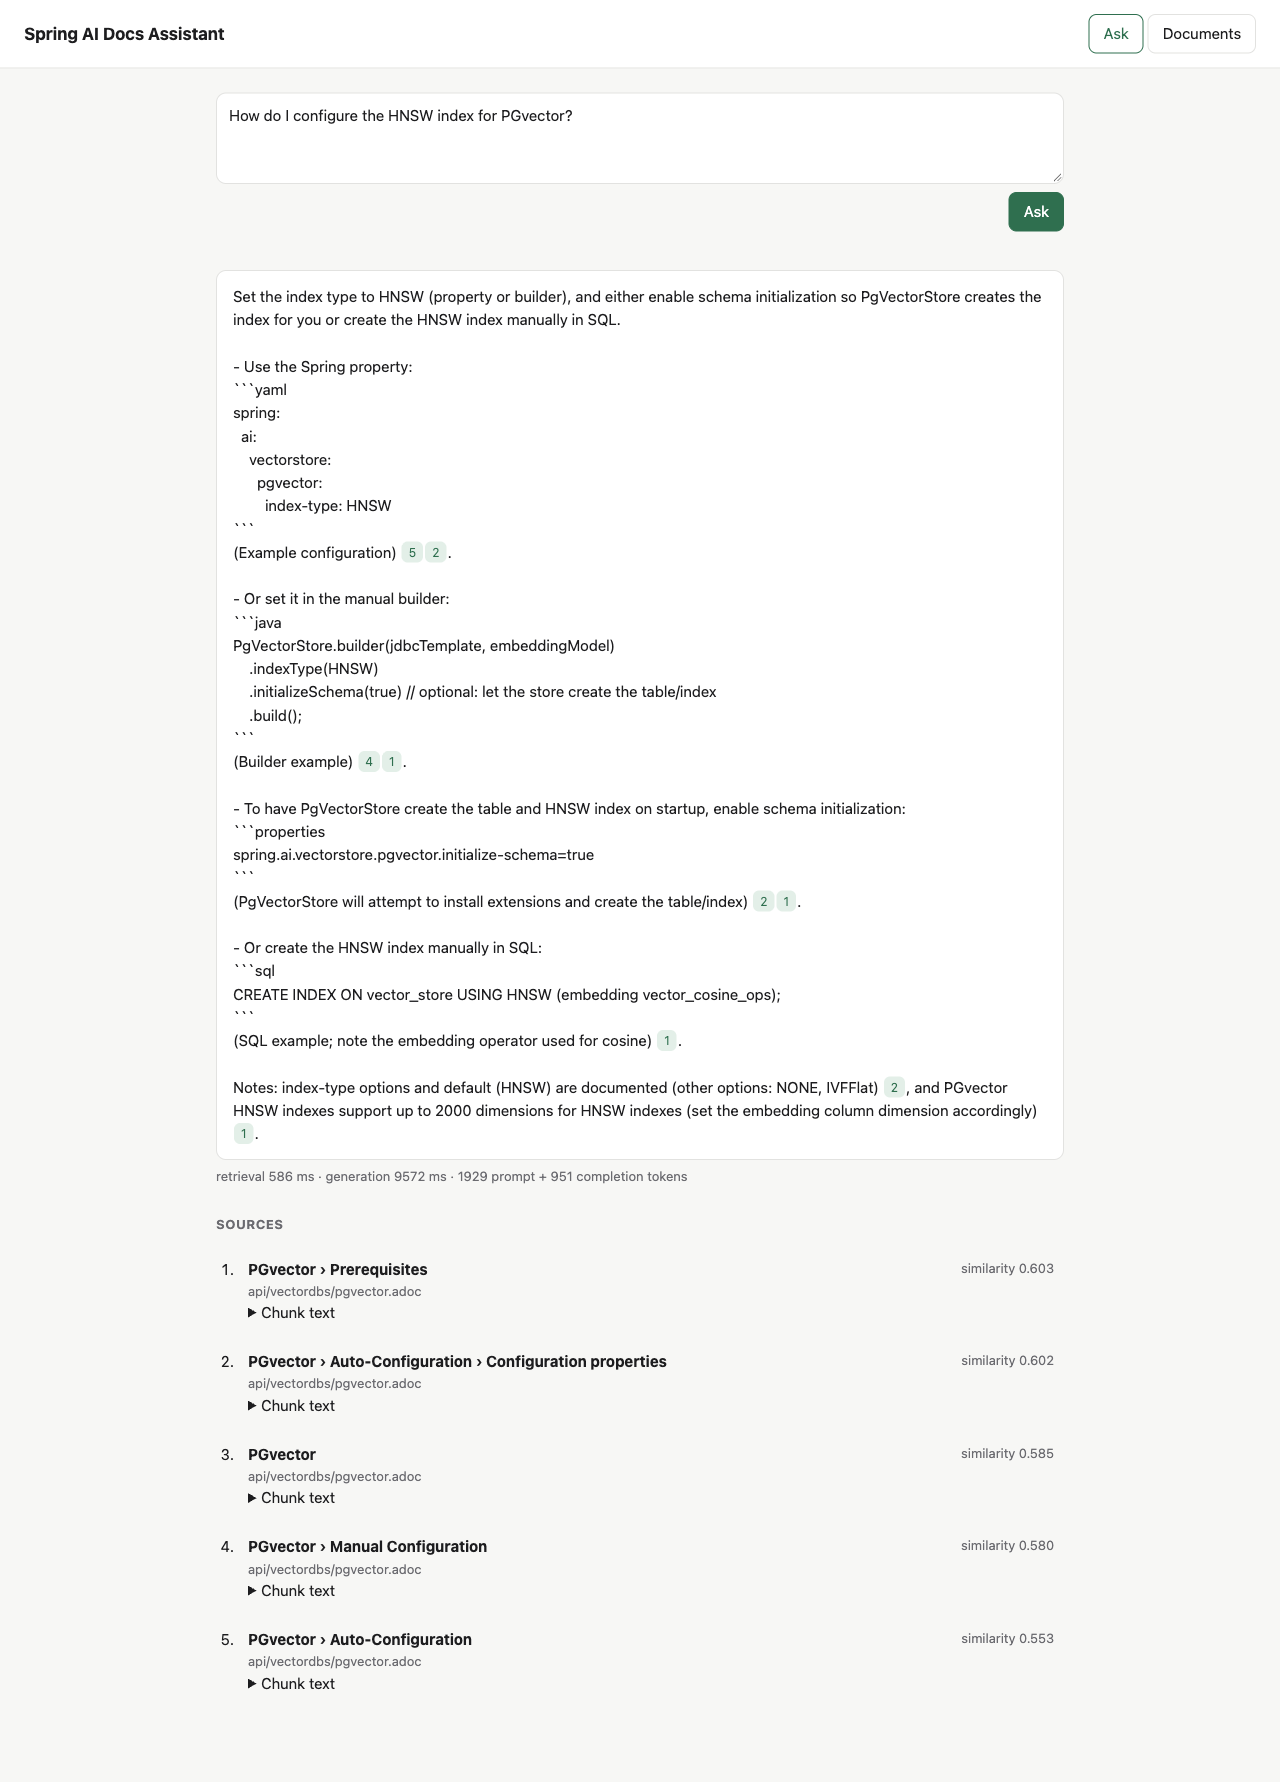
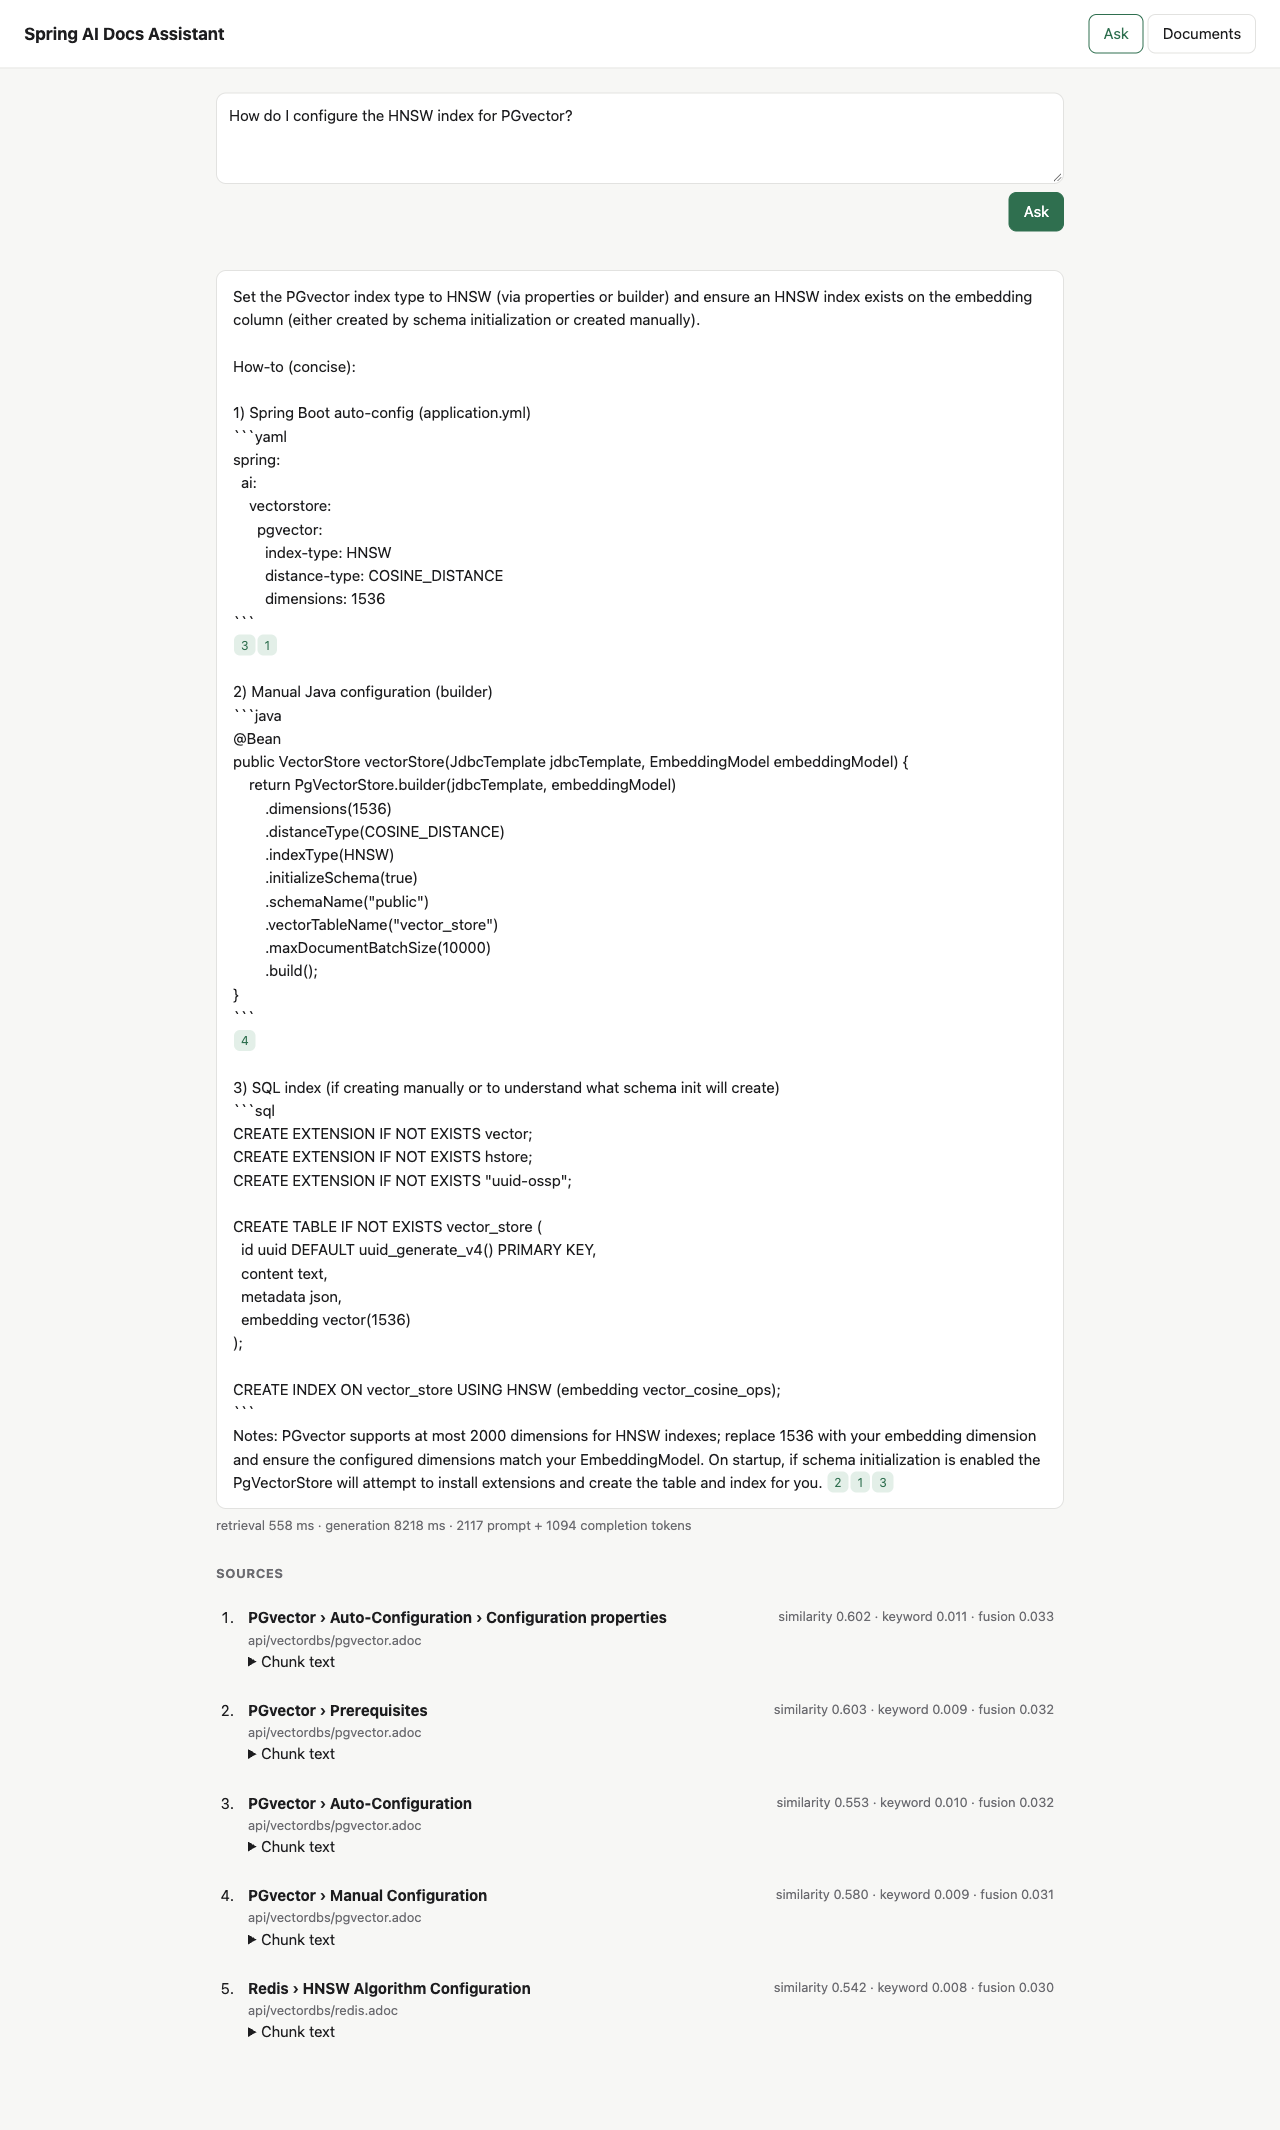
eval: M4 re-run with ts_rank — hybrid wins and becomes the default; README and screenshots updated

diff --git a/README.md b/README.md
@@ -39,7 +39,7 @@ multi-query, reranking) gets added only after an evaluation harness can measure 
 | M1 | Structure-aware chunking, idempotent ingestion, document API, corpus fetch script | ✅ done |
 | M2 | Naive vector-only baseline: retrieval, grounded answers with `[n]` citations, SSE streaming, browser UI | ✅ done |
 | M3 | Golden set (generated, then reviewed) and an `EvalRunner` with retrieval metrics | ✅ done |
-| M4 | Keyword search (`tsvector`) plus reciprocal rank fusion: hybrid retrieval | ✅ done (vector stays the default; see Evaluation) |
+| M4 | Keyword search (`tsvector`) plus reciprocal rank fusion: hybrid retrieval | ✅ done (hybrid is the default; see Evaluation) |
 | M5 | Query rewriting and multi-query expansion, parallel retrieval | next |
 | M6 | LLM reranker with a minimum score, so off-topic questions are refused | planned |
 | M7 | Generation evals (faithfulness, relevancy, citation validity), `/api/retrieve`, debug panel | planned |
@@ -110,7 +110,7 @@ Type a question and press **Ask**, or press <kbd>⌘</kbd>/<kbd>Ctrl</kbd>+<kbd>
 Each `[n]` in the answer is a chip. Clicking it expands source *n*, scrolls to it and highlights it. The source shows the
 exact chunk text the model saw, including its contextual header:
 
-![Clicking citation 2 opens the configuration-properties chunk; the whole properties table is one chunk](docs/images/02-citation-opens-source.png)
+![Clicking citation 1 opens the configuration-properties chunk, ranked first by hybrid search; the whole properties table is one chunk](docs/images/02-citation-opens-source.png)
 
 > The answer is shown as plain text: Markdown is deliberately not rendered, so no model or document text is ever injected
 > as HTML. Code fences therefore appear as literal backticks.
@@ -159,6 +159,7 @@ flowchart LR
         AS[AnswerService]
         RP[RetrievalPipeline]
         VR[VectorRetriever]
+        KR[KeywordRetriever]
         PA[PromptAssembler]
         DC["DocumentController<br/>/api/ingest/corpus, /api/documents"]
         CI[CorpusIngestor]
@@ -174,6 +175,7 @@ flowchart LR
 
     UI -->|question| CC --> AS --> RP --> VR -->|similaritySearch| VS
     VR -.->|embed query| OAI
+    RP --> KR -->|"full-text: ts_rank"| VS
     AS --> PA
     AS -->|stream| OAI
     UI -->|upload / sync / delete| DC
@@ -311,8 +313,13 @@ sequenceDiagram
     B->>C: POST /api/chat {"question": "..."}
     C->>A: answer(question)
     A->>R: retrieve(question)
-    R->>O: embed question
-    R->>P: cosine top-5 WHERE embedding_model = current
+    par vector search
+        R->>O: embed question
+        R->>P: cosine top-20 (current model)
+    and keyword search
+        R->>P: websearch_to_tsquery, ts_rank top-20
+    end
+    R->>R: reciprocal rank fusion → top 5
     R-->>A: documents + trace
     A-->>B: event: sources
     A->>O: stream(system rules + numbered sources + question)
@@ -323,9 +330,15 @@ sequenceDiagram
     A-->>B: event: done (usage, timings)
 ```
 
-1. **Retrieve** (`VectorRetriever`): the question is embedded, then a cosine search over the HNSW index returns the
-   `top-k` (5) chunks. The search is filtered to `embedding_model = rag.embedding-model`, so vectors from another model
-   are never compared with the query.
+1. **Retrieve** (`RetrievalPipeline`; `rag.retrieval.mode=hybrid` by default since M4). The two searches run in
+   parallel on virtual threads:
+   - **Vector search** (`VectorRetriever`): the question is embedded, then a cosine search over the HNSW index returns
+     the top 20 candidates.
+   - **Keyword search** (`KeywordRetriever`): Postgres full-text search over `content_tsv` returns the top 20. It uses
+     `websearch_to_tsquery` with the terms OR-ed, ranked by length-normalised `ts_rank`.
+
+   **Fusion** (`ReciprocalRankFusion`, k = 60) merges the two rankings by rank alone and keeps the top-k (5). Both
+   searches only see chunks of the current embedding model. The `vector` and `keyword` modes run one retriever alone.
 2. **Assemble the prompt** (`PromptAssembler`):
    - The **system message** holds fixed rules (see [`prompts/answer-system.st`](src/main/resources/prompts/answer-system.st)):
      answer only from the sources; cite every factual statement as `[n]`; say *"I couldn't find this in the indexed
@@ -381,7 +394,7 @@ data:{"promptTokens":1641,"completionTokens":382,"retrievalMillis":1099,"generat
 
 | Event | Payload | When |
 |---|---|---|
-| `sources` | `{"sources": [{n, sourcePath, title, breadcrumb, score, text}]}` | Once, first. `score` is the cosine similarity (1 − distance). `n` is the number the model cites. |
+| `sources` | `{"sources": [{n, sourcePath, title, breadcrumb, score, text, scores}]}` | Once, first. `score` is what the chunk was ranked by: the fused RRF score in hybrid mode, cosine similarity in vector mode. `scores` gives each retrieval stage's score (`vector`, `keyword`, `fusion`). `n` is the number the model cites. |
 | `token` | `{"text": "…"}` | Any number of times. |
 | `done` | `{promptTokens, completionTokens, retrievalMillis, generationMillis}` | Once, last. The token counts are `null` when no model call was made. |
 | `error` | `{"message": "Sorry, the answer could not be generated. The server log has the details."}` | Replaces `done` if anything fails. |
@@ -448,7 +461,7 @@ variables or `--name=value`.
 | `rag.chunking.overlap-tokens` | `60` | Trailing prose repeated at the start of the next chunk. |
 | `rag.retrieval.top-k` | `5` | Chunks handed to the model. |
 | `rag.retrieval.similarity-threshold` | `0.0` | Minimum cosine similarity. M6's reranker will own refusals. |
-| `rag.retrieval.mode` | `vector` | `vector`, `keyword` or `hybrid` (both, fused with RRF k=60). Chosen by the M4 eval; hybrid lost on MRR@10. |
+| `rag.retrieval.mode` | `hybrid` | `vector`, `keyword` or `hybrid` (both in parallel, fused with RRF k=60). Chosen by the M4 eval. |
 | `rag.retrieval.candidates` | `20` | Hybrid: chunks each retriever contributes before fusion. |
 | `server.port` / `server.address` | `8081` / `127.0.0.1` | Loopback only, because there is no authentication. |
 | `spring.servlet.multipart.max-file-size` | `20MB` | Upload limit. |
@@ -550,20 +563,18 @@ reviewed by Claude at the user's request rather than by a human:
 The eval reports hit@5, recall@5, MRR@10 and p50/p95 retrieval latency for each retrieval configuration. Golden
 labels name a page and a heading path, not chunk ids, so the set survives re-chunking.
 
-**M4 comparison (53 questions, 2026-10-06):**
+**M4 comparison (53 questions, 2026-10-06; keyword search ranked with `ts_rank`):**
 
 | Config | hit@5 | recall@5 | MRR@10 | p50 ms | p95 ms |
 |---|---|---|---|---|---|
-| vector | 0.981 | 0.965 | 0.864 | 485 | 777 |
-| keyword | 0.509 | 0.472 | 0.359 | 12 | 31 |
-| hybrid | 0.962 | 0.937 | 0.736 | 476 | 731 |
+| vector | 0.981 | 0.965 | 0.864 | 497 | 885 |
+| keyword | 0.962 | 0.950 | 0.840 | 16 | 52 |
+| hybrid | 0.981 | 0.975 | 0.915 | 469 | 715 |
 
-Vector search stays the default (`rag.retrieval.mode=vector`), as the rule fixed before the run required: hybrid
-lost on MRR@10. Keyword search was weak because of its rank function: `ts_rank_cd` lets a common word repeated in a
-chunk outrank a rare exact identifier. In an exploratory run outside the harness, `ts_rank` scored 0.925 hit@5 for
-keyword search alone, so the decision holds only for the keyword retriever as built. Details, the per-tag results
-and the next experiment are in [`eval/README.md`](eval/README.md#m4-vector-vs-keyword-vs-hybrid). The golden set is
-AI-reviewed and was mostly generated from single chunks, which favours vector search.
+Hybrid retrieval is the default (`rag.retrieval.mode=hybrid`), as the rule fixed before the run required. It matches
+vector search on paraphrased questions and lifts identifier questions from MRR@10 0.753 to 0.962. A first run that
+ranked keyword search with `ts_rank_cd` lost; why, and the per-tag results, are in
+[`eval/README.md`](eval/README.md#m4-vector-vs-keyword-vs-hybrid). The golden set is AI-reviewed.
 
 ## Design decisions
 
@@ -623,8 +634,6 @@ previous configuration.
      reuse the chunk's wording.
   2. A human reviews them into `eval/golden-set.json`.
   3. `EvalRunner` (`eval` profile) reports hit@5, recall@5, MRR@10 and p50/p95 latency.
-- **M4:** `KeywordRetriever` (`websearch_to_tsquery` + `ts_rank_cd`) and reciprocal rank fusion, with
-  `rag.retrieval.mode=VECTOR|KEYWORD|HYBRID`.
 - **M5:** query rewriting and multi-query expansion, retrieval in parallel on virtual threads, and RRF across query
   variants.
 - **M6:** an `LlmReranker` with a minimum score, so off-topic questions are refused.
@@ -651,7 +660,8 @@ previous configuration.
     │   ├── ingest/                  SectionParser, StructureAwareChunker, Chunk, ChunkedText, ChunkMetadata,
     │   │                            DocumentIngestionService, CorpusIngestor, SourceDocument(+Repository),
     │   │                            TextExtractor, DocumentController, CorpusUnavailableException
-    │   ├── retrieval/               RetrievalPipeline, VectorRetriever, RetrievalResult, PipelineTrace
+    │   ├── retrieval/               RetrievalPipeline, RetrievalMode, RetrievalOptions, VectorRetriever,
+    │   │                            KeywordRetriever, ReciprocalRankFusion, RetrievalResult, PipelineTrace
     │   └── generation/              AnswerService, PromptAssembler, AssembledPrompt, ChatController,
     │                                ChatRequest, ChatEvent, SourceRef
     ├── main/resources/

diff --git a/eval/README.md b/eval/README.md
@@ -81,6 +81,49 @@ This writes `eval/reports/<UTC time>.md` and `.json` (gitignored). Each report r
 
 ## M4: vector vs keyword vs hybrid
 
+**Final comparison** from `eval/reports/2026-10-06T09-34-14Z.md` (golden set v2, 53 questions). Keyword search here is ranked with
+length-normalised `ts_rank` (spec amendment 27):
+
+| | |
+|---|---|
+| Golden set | `eval/golden-set.json` (53 questions, sha256 `9d43cfa4e4cb…`) |
+| Index | 51 corpus pages, 0 uploads, 1106 chunks |
+| Embedding model | `text-embedding-3-small` |
+| Chunking | max 500 · min 50 · overlap 60 tokens |
+
+| Config | hit@5 | recall@5 | MRR@10 | p50 ms | p95 ms |
+|---|---|---|---|---|---|
+| vector | 0.981 | 0.965 | 0.864 | 497 | 885 |
+| keyword | 0.962 | 0.950 | 0.840 | 16 | 52 |
+| hybrid | 0.981 | 0.975 | 0.915 | 469 | 715 |
+
+| Config | Tag | Items | hit@5 | recall@5 | MRR@10 |
+|---|---|---|---|---|---|
+| vector | identifier | 13 | 1.000 | 0.962 | 0.753 |
+| vector | untagged | 40 | 0.975 | 0.967 | 0.900 |
+| keyword | identifier | 13 | 1.000 | 1.000 | 1.000 |
+| keyword | untagged | 40 | 0.950 | 0.933 | 0.788 |
+| hybrid | identifier | 13 | 1.000 | 1.000 | 0.962 |
+| hybrid | untagged | 40 | 0.975 | 0.967 | 0.900 |
+
+**Default mode: HYBRID.** The rule fixed before the first run (spec amendment 24) holds:
+- hybrid's MRR@10 is 0.915, at least vector's 0.864;
+- hybrid's hit@5 is 0.981, equal to vector's (the rule allows one question, 1/53, below).
+
+`rag.retrieval.mode` is now `hybrid`.
+
+- **The whole gain is on identifier questions.** MRR@10 rises from 0.753 (vector) to 0.962 (hybrid); keyword search
+  alone ranks every identifier question's section first (1.000).
+- **Nothing is lost on the other 40 questions.** Hybrid and vector both score hit@5 0.975 and MRR@10 0.900.
+- **Latency is unchanged.** Keyword search takes about 16 ms and runs in parallel with the query embedding.
+- **Caveats:**
+  - `ts_rank` normalization 1 was chosen after seeing exploratory numbers on this same golden set, which risks
+    overfitting to it.
+  - The identifier questions were written by Claude.
+  - With 53 questions, one question is worth about 0.019 in hit@5.
+
+### First run: keyword ranked by `ts_rank_cd`
+
 Recorded on 2026-10-06 from `eval/reports/2026-10-06T05-48-24Z.md` (golden set v2, 53 questions):
 
 | | |
@@ -105,7 +148,7 @@ Recorded on 2026-10-06 from `eval/reports/2026-10-06T05-48-24Z.md` (golden set v
 | hybrid | identifier | 13 | 0.923 | 0.846 | 0.785 |
 | hybrid | untagged | 40 | 0.975 | 0.967 | 0.720 |
 
-**Default mode: VECTOR stays.** The rule fixed before the run (spec amendment 24) makes HYBRID the default only if
+**Default after the first run: VECTOR stayed.** The rule fixed before the run (spec amendment 24) makes HYBRID the default only if
 its MRR@10 is ≥ vector's and its hit@5 is no more than one question (1/53 ≈ 0.019) below vector's. Hybrid's MRR@10 is
 0.736 against vector's 0.864, so the rule keeps VECTOR.
 
@@ -141,8 +184,8 @@ What the numbers show:
   | `ts_rank(…, 1)` (length-normalised) | 0.962 | 0.840 | 1.000 | 1.000 |
   | `ts_rank_cd`, all terms first, then any term | 0.604 | 0.484 | 0.846 | 0.857 |
 
-  Switching the rank function to `ts_rank` is a one-line change that could reverse the hybrid result, so it is the
-  next experiment. It needs a spec amendment and a re-run of this comparison under the same rule.
+  Switching the rank function to `ts_rank` was a one-line change that could reverse the hybrid result. It was done
+  (spec amendment 27), and the comparison was re-run under the same rule; that run is the final comparison above.
 
 ## Baseline
 
@@ -159,7 +202,7 @@ Recorded on 2026-10-06 from `eval/reports/2026-10-06T04-51-23Z.md`:
 |---|---|---|---|---|---|
 | vector | 0.976 | 0.967 | 0.902 | 488 | 830 |
 
-Baseline: vector-only retrieval (M2 pipeline), top 10, text-embedding-3-small. Every later configuration is compared with this row on the same golden set (sha256 above).
+Baseline: vector-only retrieval (M2 pipeline), top 10, text-embedding-3-small. Later configurations were compared with this row on golden set v1; from M4 on, configurations are compared on v2 within one run (see M4 above).
 
 About this golden set:
 

diff --git a/docs/superpowers/specs/2026-10-05-rag-pipeline-design.md b/docs/superpowers/specs/2026-10-05-rag-pipeline-design.md
@@ -268,6 +268,8 @@ Run TDD inside each milestone (superpowers:test-driven-development). Pause at M3
       this, not missing IDF.
     - Exploratory, outside the harness: `ts_rank` reaches keyword-alone hit@5 0.925 and MRR@10 0.823. Switching to it
       is a candidate amendment, to be measured under the same rule.
+    - **Re-run outcome** (amendment 27, report 2026-10-06T09-34-14Z): **HYBRID becomes the default.** Hybrid MRR@10
+      0.915 vs vector 0.864; hit@5 0.981 vs 0.981.
 25. **Golden items take optional `tags`.**
     - 12 identifier questions (`i01`–`i12`) and `h01` are tagged `identifier`, which makes golden set v2 53 items.
     - Reports add a per-tag table.
